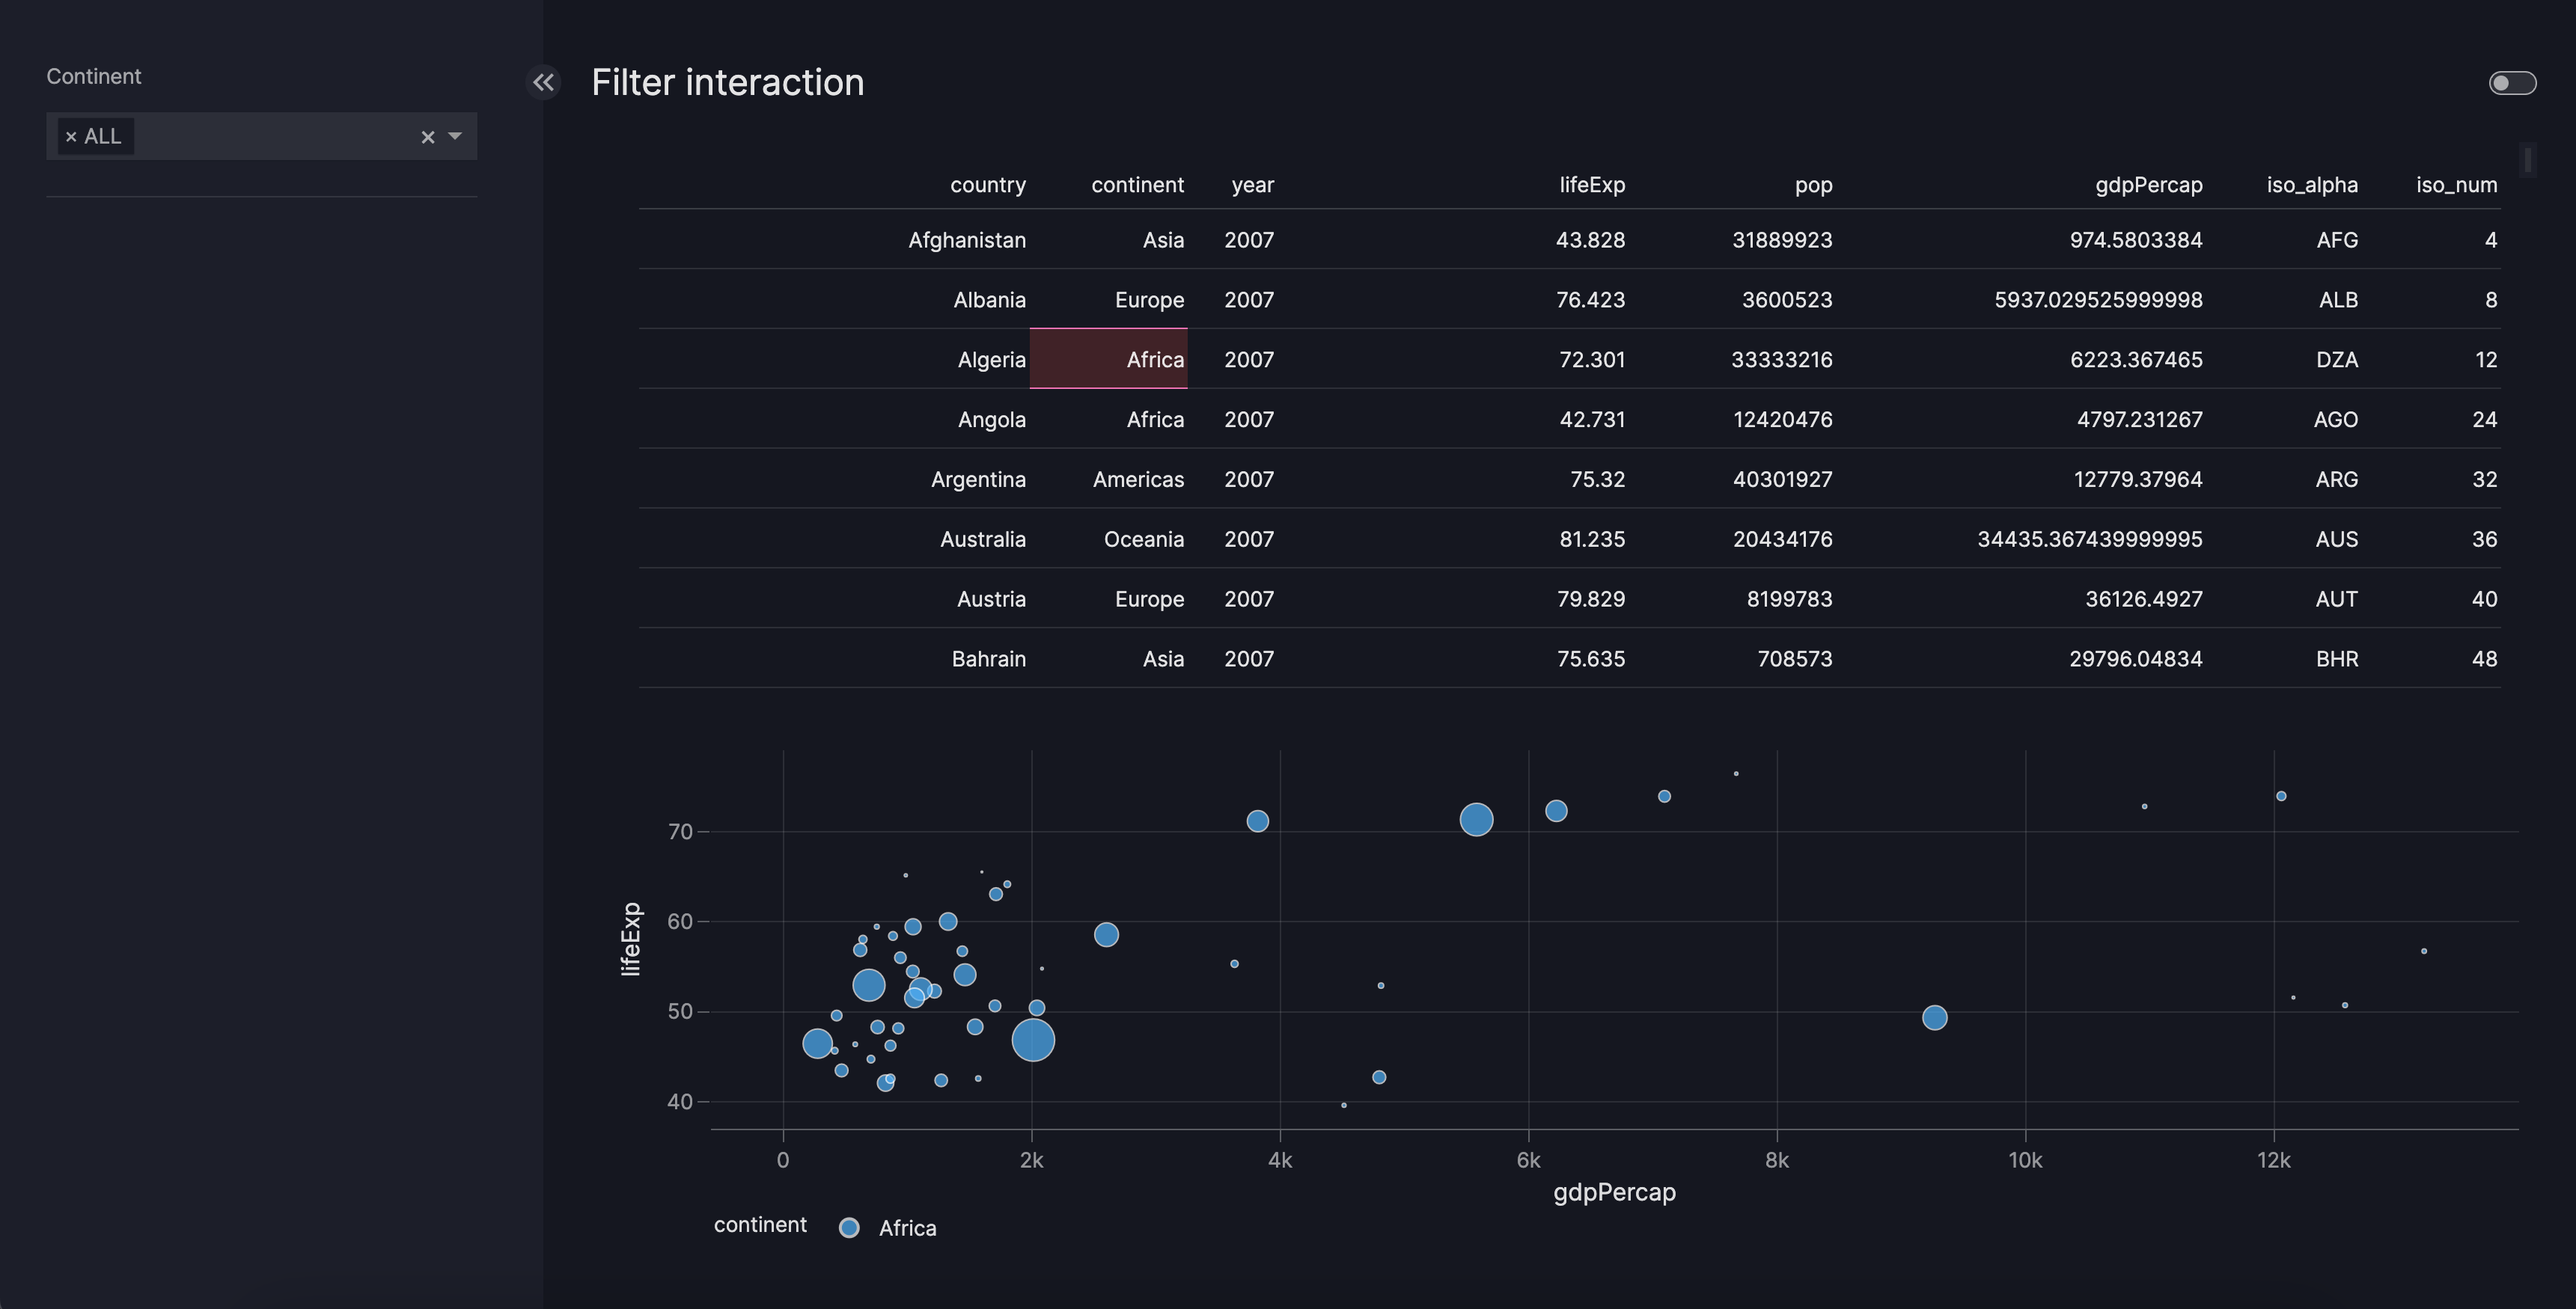
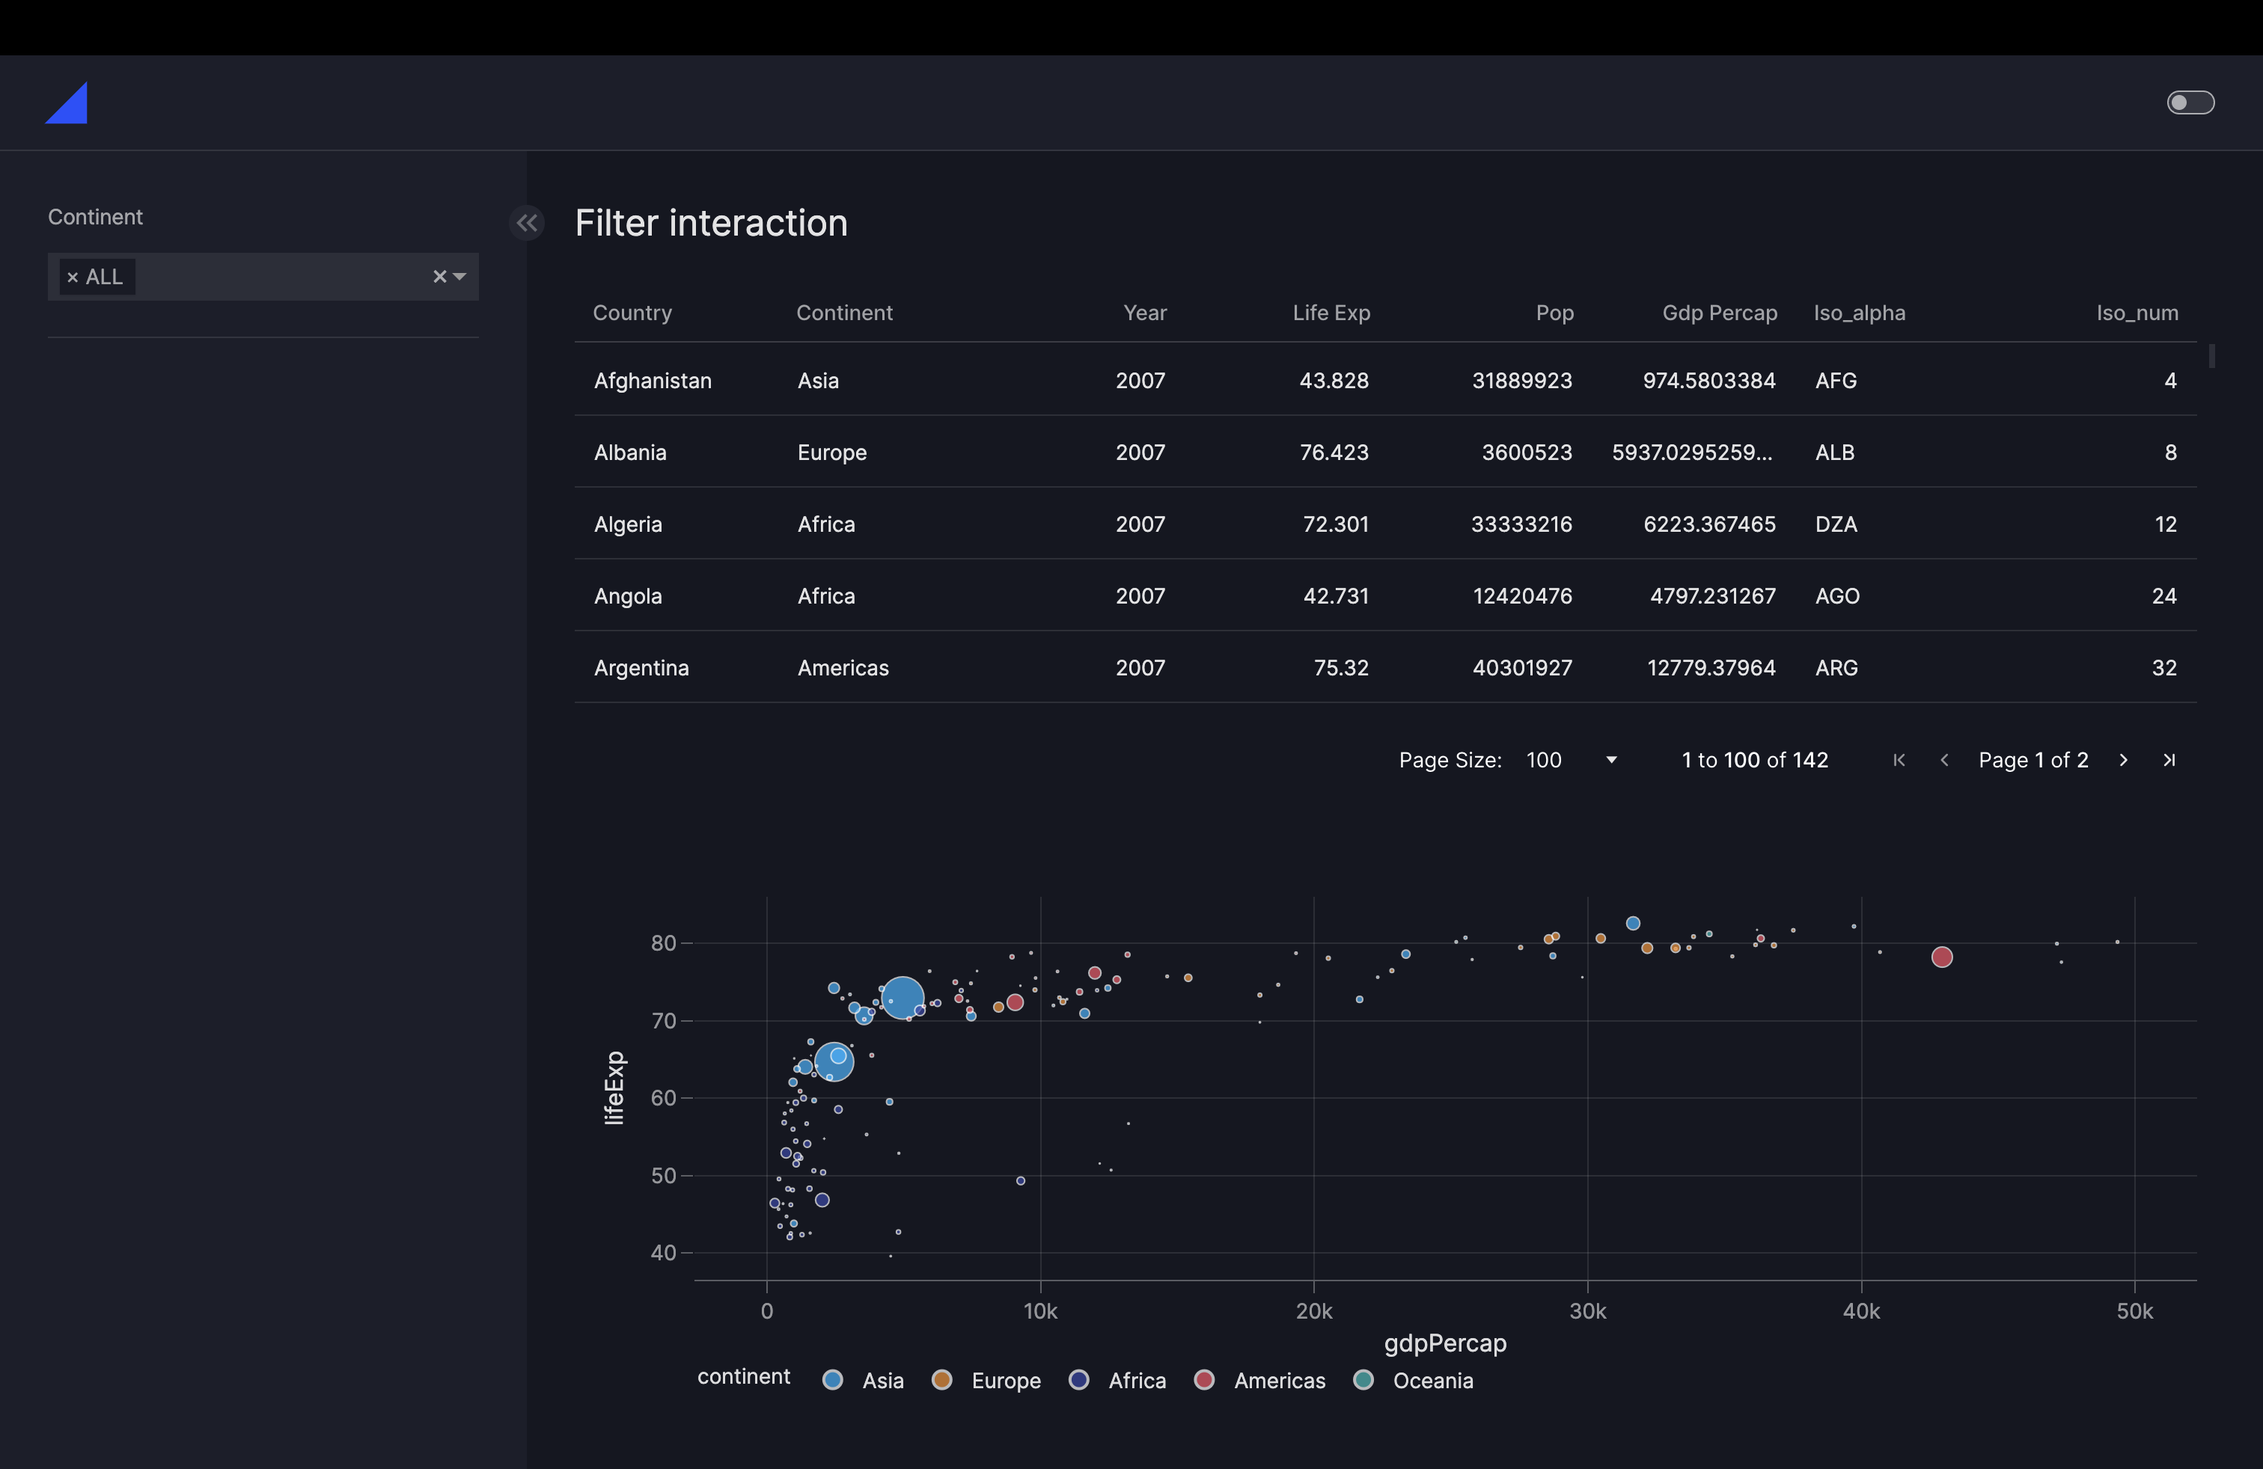
Update docs fro AgGrid interaction

diff --git a/vizro-core/examples/_dev/app.py b/vizro-core/examples/_dev/app.py
@@ -1,113 +1,36 @@
-"""Example to show dashboard configuration."""
-
-import random
-import string
-
-import numpy as np
-import pandas as pd
 import vizro.models as vm
 import vizro.plotly.express as px
 from vizro import Vizro
-from vizro.tables import dash_ag_grid, dash_data_table
+from vizro.actions import filter_interaction
+from vizro.tables import dash_ag_grid
 
-df = px.data.gapminder()
-df_mean = (
-    df.groupby(by=["continent", "year"]).agg({"lifeExp": "mean", "pop": "mean", "gdpPercap": "mean"}).reset_index()
-)
-
-df_transformed = df.copy()
-df_transformed["lifeExp"] = df.groupby(by=["continent", "year"])["lifeExp"].transform("mean")
-df_transformed["gdpPercap"] = df.groupby(by=["continent", "year"])["gdpPercap"].transform("mean")
-df_transformed["pop"] = df.groupby(by=["continent", "year"])["pop"].transform("sum")
-df_concat = pd.concat([df_transformed.assign(color="Continent Avg."), df.assign(color="Country")], ignore_index=True)
-
-
-grid_interaction = vm.Page(
-    title="AG Grid and Table Interaction",
-    components=[
-        vm.AgGrid(
-            id="table_country_new",
-            title="Click on a cell",
-            figure=dash_ag_grid(
-                id="dash_ag_grid_1",
-                data_frame=px.data.gapminder(),
-            ),
-        ),
-    ],
-)
-
-
-df2 = px.data.stocks()
-df2["date_as_datetime"] = pd.to_datetime(df2["date"])
-df2["date_str"] = df2["date"].astype("str")
-df2["perc_from_float"] = np.random.rand(len(df2))
-df2["random"] = np.random.uniform(-100000.000, 100000.000, len(df2))
-
-grid_standard = vm.Page(
-    title="AG Grid Default",
-    components=[
-        vm.AgGrid(
-            title="AG Grid - Default",
-            figure=dash_ag_grid(
-                # id="dash_ag_grid_2",
-                data_frame=df2,
-            ),
-        ),
-    ],
-)
-
-grid_custom = vm.Page(
-    title="AG Grid Custom",
-    components=[
-        vm.AgGrid(
-            title="Custom AG Grid",
-            figure=dash_ag_grid(
-                id="dash_ag_grid_3",
-                data_frame=df2,
-                columnDefs=[
-                    {"field": "AAPL", "headerName": "Format Dollar", "cellDataType": "dollar"},
-                    {"field": "AAPL", "headerName": "Format Euro", "cellDataType": "euro"},
-                    {"field": "random", "headerName": "Format Numeric", "cellDataType": "numeric"},
-                    {"field": "perc_from_float", "headerName": "Format Percent", "cellDataType": "percent"},
-                    {
-                        "field": "perc_from_float",
-                        "headerName": "custom format",
-                        "valueFormatter": {"function": "d3.format('.^30')(params.value)"},
-                    },
-                ],
-                defaultColDef={"editable": True},
-                # dashGridOptions = {"pagination": False},
-            ),
-        ),
-    ],
-)
-
-num_rows = 100
-num_columns = 20
-column_names = ["Column_" + str(i) for i in range(num_columns)]
-data = {}
-for column in column_names:
-    data[column] = ["".join(random.choices(string.ascii_letters, k=random.randint(5, 15))) for _ in range(num_rows)]
-df_long = pd.DataFrame(data)
-
-grid_long = vm.Page(
-    title="AG Grid Long",
-    components=[
-        vm.AgGrid(figure=dash_ag_grid(id="dash_ag_grid_4", data_frame=df_long), title="AG Grid - long"),
-    ],
-)
-
-table_long = vm.Page(
-    title="Table Long",
-    components=[
-        vm.Table(figure=dash_data_table(id="dash_table_5", data_frame=df_long)),
-    ],
-)
-
+df_gapminder = px.data.gapminder().query("year == 2007")
 
 dashboard = vm.Dashboard(
-    pages=[grid_interaction, grid_standard, grid_custom, grid_long, table_long],
+    pages=[
+        vm.Page(
+            title="Filter interaction",
+            components=[
+                vm.AgGrid(
+                    figure=dash_ag_grid(data_frame=df_gapminder),
+                    actions=[
+                        vm.Action(function=filter_interaction(targets=["scatter_relation_2007"]))
+                    ],
+                ),
+                vm.Graph(
+                    id="scatter_relation_2007",
+                    figure=px.scatter(
+                        df_gapminder,
+                        x="gdpPercap",
+                        y="lifeExp",
+                        size="pop",
+                        color="continent",
+                    ),
+                ),
+            ],
+            controls=[vm.Filter(column='continent')]
+        ),
+    ]
 )
 
-if __name__ == "__main__":
-    Vizro().build(dashboard).run()
+Vizro().build(dashboard).run()

diff --git a/vizro-core/examples/_dev/yaml_version/app.py b/vizro-core/examples/_dev/yaml_version/app.py
@@ -10,6 +10,7 @@ from vizro.models import Dashboard
 
 data_manager["iris"] = px.data.iris
 data_manager["gapminder"] = px.data.gapminder
+data_manager["gapminder_2007"] = px.data.gapminder().query("year == 2007")
 
 dashboard = yaml.safe_load(Path("dashboard.yaml").read_text(encoding="utf-8"))
 dashboard = Dashboard(**dashboard)

diff --git a/vizro-core/docs/pages/user-guides/actions.md b/vizro-core/docs/pages/user-guides/actions.md
@@ -202,26 +202,26 @@ Here is an example of how to configure a chart interaction when the source is a 
 
     [Graph2]: ../../assets/user_guides/actions/actions_filter_interaction.png
 
-Here is an example of how to configure a chart interaction when the source is a [`Table`][vizro.models.Table] component.
+Here is an example of how to configure a chart interaction when the source is an [`AgGrid`][vizro.models.AgGrid] component.
 
-!!! example "Table `filter_interaction`"
+!!! example "AgGrid `filter_interaction`"
     === "app.py"
         ```py
         import vizro.models as vm
         import vizro.plotly.express as px
         from vizro import Vizro
         from vizro.actions import filter_interaction
-        from vizro.tables import dash_data_table
-
+        from vizro.tables import dash_ag_grid
+        
         df_gapminder = px.data.gapminder().query("year == 2007")
-
+        
         dashboard = vm.Dashboard(
             pages=[
                 vm.Page(
                     title="Filter interaction",
                     components=[
-                        vm.Table(
-                            figure=dash_data_table(id="dash_datatable_id", data_frame=df_gapminder),
+                        vm.AgGrid(
+                            figure=dash_ag_grid(data_frame=df_gapminder),
                             actions=[
                                 vm.Action(function=filter_interaction(targets=["scatter_relation_2007"]))
                             ],
@@ -241,7 +241,7 @@ Here is an example of how to configure a chart interaction when the source is a 
                 ),
             ]
         )
-
+        
         Vizro().build(dashboard).run()
         ```
     === "app.yaml"
@@ -250,11 +250,10 @@ Here is an example of how to configure a chart interaction when the source is a 
         # See yaml_version example
         pages:
           - components:
-            - type: table
+            - type: ag_grid
               figure:
-                _target_: dash_data_table
+                _target_: dash_ag_grid
                 data_frame: gapminder_2007
-                id: dash_datatable_id
               actions:
                - function:
                     _target_: filter_interaction

diff --git a/vizro-core/changelog.d/20240304_085704_maximilian_schulz_change_table_example.md b/vizro-core/changelog.d/20240304_085704_maximilian_schulz_change_table_example.md
@@ -1,0 +1,48 @@
+<!--
+A new scriv changelog fragment.
+
+Uncomment the section that is right (remove the HTML comment wrapper).
+-->
+
+<!--
+### Highlights ✨
+
+- A bullet item for the Highlights ✨ category with a link to the relevant PR at the end of your entry, e.g. Enable feature XXX ([#1](https://github.com/mckinsey/vizro/pull/1))
+
+-->
+<!--
+### Removed
+
+- A bullet item for the Removed category with a link to the relevant PR at the end of your entry, e.g. Enable feature XXX ([#1](https://github.com/mckinsey/vizro/pull/1))
+
+-->
+<!--
+### Added
+
+- A bullet item for the Added category with a link to the relevant PR at the end of your entry, e.g. Enable feature XXX ([#1](https://github.com/mckinsey/vizro/pull/1))
+
+-->
+<!--
+### Changed
+
+- A bullet item for the Changed category with a link to the relevant PR at the end of your entry, e.g. Enable feature XXX ([#1](https://github.com/mckinsey/vizro/pull/1))
+
+-->
+<!--
+### Deprecated
+
+- A bullet item for the Deprecated category with a link to the relevant PR at the end of your entry, e.g. Enable feature XXX ([#1](https://github.com/mckinsey/vizro/pull/1))
+
+-->
+<!--
+### Fixed
+
+- A bullet item for the Fixed category with a link to the relevant PR at the end of your entry, e.g. Enable feature XXX ([#1](https://github.com/mckinsey/vizro/pull/1))
+
+-->
+<!--
+### Security
+
+- A bullet item for the Security category with a link to the relevant PR at the end of your entry, e.g. Enable feature XXX ([#1](https://github.com/mckinsey/vizro/pull/1))
+
+-->
